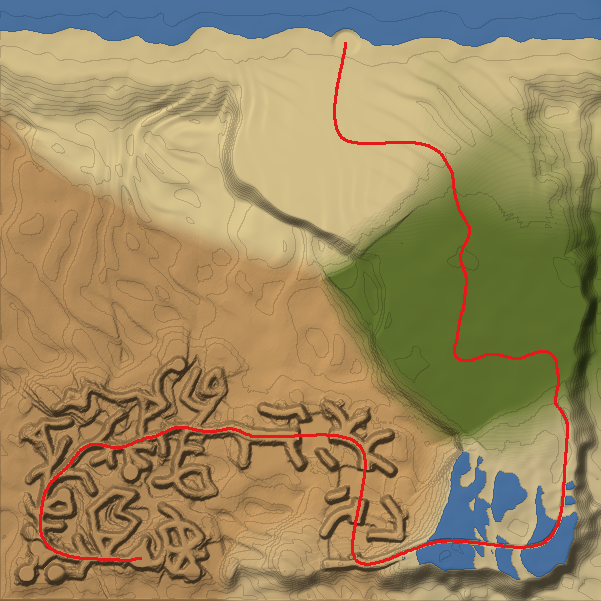
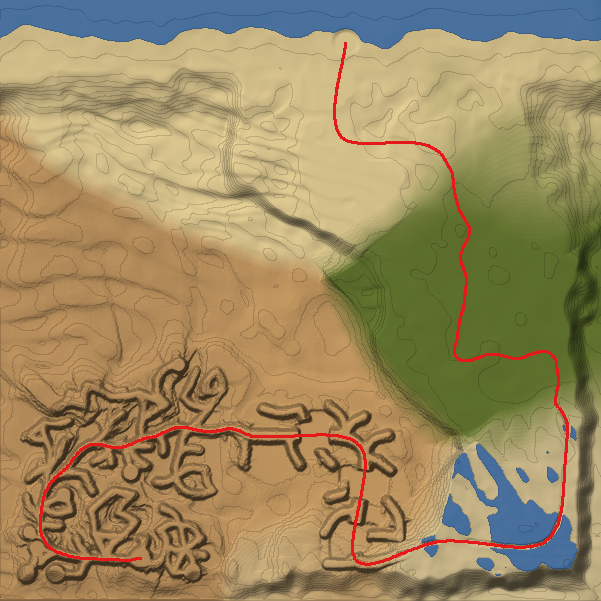
feat(tools): Mapa01 sin algas, playa de dunas y módulos que no se pisan
- Semilla estable: lo añadido tras la versión aprobada (desnivel de los
  túneles, ruido de túnel, cresta y lomas de playa) sale de un generador
  aparte, así que la semilla 20260925 sigue dando el mismo mapa. Test que
  fija su huella (ruta de 1521 m, tramos de túnel, ángulo de dunas).
- Bosque: sin modelos de alga; la zona se lee por una arena amarilla con
  tono verdoso (paleta algae_sand).
- Playa final: lomas grandes y redondeadas que se suben andando antes de
  bajar al mar.
- Zona encharcada: la cresta tiene anchura, bordes y cota irregulares.
- import_terrain_mesh.py: el mapa es fijo y se diseña encima. Si el nivel
  ya existe no toca nada salvo con TN_REGENERATE=1, y entonces recarga los
  DA_* en sitio y crea solo los actores que falten: nada colocado a mano
  se borra.

diff --git a/Scripts/import_terrain_mesh.py b/Scripts/import_terrain_mesh.py
@@ -8,11 +8,18 @@ Se ejecuta DENTRO del editor de Unreal (headless):
 Lee Scripts/terrain_volumes/<nombre>/manifest.json (lo escribe gen_terrain_volume.py) y:
     - crea un DA_<trozo> (UTN_TerrainMeshAsset) por trozo en /Game/Terrain/Volumes/<nombre>,
       cargado desde su binario;
-    - crea o rehace el nivel /Game/Maps/Run/LVL_<nombre>: un ATN_TerrainMeshTile por trozo en su
-      sitio, lamina de agua, sol, cielo, PlayerStart en el inicio y el GameMode de la demo.
+    - crea el nivel /Game/Maps/Run/LVL_<nombre>: un ATN_TerrainMeshTile por trozo en su sitio,
+      lamina de agua, sol, cielo, PlayerStart en el inicio y el GameMode de la demo.
+
+El mapa es FIJO y se disena encima (obstaculos, puzles, retoques): los trozos se guardan para
+editarlos. Por eso, si el mapa ya existe:
+    - sin TN_REGENERATE=1 no se toca nada y el script falla avisando;
+    - con TN_REGENERATE=1 solo se recargan los trozos (DA_* en sitio: mismas referencias) y se
+      crean los actores que falten. Nada de lo colocado a mano en el nivel se borra.
 
 Variables de entorno (opcionales):
     TN_VOLUME_DIR   carpeta con manifest.json (por defecto Scripts/terrain_volumes/Mapa01)
+    TN_REGENERATE   1 = sobrescribir la malla de un mapa ya importado
 """
 
 import json
@@ -46,15 +53,13 @@ def load_or_none(path):
 
 
 def build_assets(volume_dir, manifest, root):
-    if asset_lib.does_directory_exist(root):
-        if not asset_lib.delete_directory(root):
-            raise RuntimeError(f"No se pudo borrar {root}: cierra el nivel que usa sus trozos")
+    """Crea o recarga EN SITIO cada DA_<trozo>: los actores del nivel siguen apuntando a el."""
     assets = {}
     factory = unreal.DataAssetFactory()
     factory.set_editor_property("data_asset_class", unreal.TN_TerrainMeshAsset)
     for cell in manifest["cells"]:
         name = f"DA_{cell['name']}"
-        asset = asset_tools.create_asset(name, root, unreal.TN_TerrainMeshAsset, factory)
+        asset = load_or_none(f"{root}/{name}") or asset_tools.create_asset(name, root, unreal.TN_TerrainMeshAsset, factory)
         path = os.path.join(volume_dir, cell["file"]).replace("\\", "/")
         if not asset.load_from_file(path):
             raise RuntimeError(f"{name}: LoadFromFile rechazo {path}")
@@ -69,26 +74,35 @@ def spawn(actor_class, label, location, rotation=unreal.Rotator(0.0, 0.0, 0.0)):
     return actor
 
 
+def existing_labels():
+    return {a.get_actor_label(): a for a in unreal.get_editor_subsystem(unreal.EditorActorSubsystem).get_all_level_actors()}
+
+
 def build_level(manifest, assets, level_path):
     level_subsystem = unreal.get_editor_subsystem(unreal.LevelEditorSubsystem)
-    actor_subsystem = unreal.get_editor_subsystem(unreal.EditorActorSubsystem)
     if asset_lib.does_asset_exist(level_path):
-        level_subsystem.load_level(level_path)
-        for actor in actor_subsystem.get_all_level_actors():
-            actor_subsystem.destroy_actor(actor)
+        level_subsystem.load_level(level_path)       # se conserva todo lo que haya
     else:
         level_subsystem.new_level(level_path)
+    have = existing_labels()
 
     terrain_material = load_or_none(TERRAIN_MATERIAL_PATH)
     foliage_material = load_or_none(FOLIAGE_MATERIAL_PATH)
     tile_class = unreal.load_class(None, TILE_CLASS_PATH)
     for cell in manifest["cells"]:
-        x, y = cell["center_uu"]
-        tile = spawn(tile_class, f"Terrain_{cell['name']}", unreal.Vector(x, y, 0.0))
-        tile.set_editor_property("terrain_material", terrain_material)
-        tile.set_editor_property("foliage_material", foliage_material)
+        label = f"Terrain_{cell['name']}"
+        tile = have.get(label)
+        if tile is None:
+            x, y = cell["center_uu"]
+            tile = spawn(tile_class, label, unreal.Vector(x, y, 0.0))
+            tile.set_folder_path("Terrain")
+            tile.set_editor_property("terrain_material", terrain_material)
+            tile.set_editor_property("foliage_material", foliage_material)
         tile.set_editor_property("mesh_asset", assets[cell["name"]])
-        tile.set_folder_path("Terrain")
+
+    if "Water" in have:
+        level_subsystem.save_current_level()
+        return
 
     # Lamina de agua: el plano del motor mide PLANE_SIZE_UU; cubre el mapa entero.
     extent = manifest["grid"] * manifest["cell_uu"]
@@ -131,8 +145,12 @@ def main():
     with open(f"{volume_dir}/manifest.json", encoding="utf-8") as handle:
         manifest = json.load(handle)
     name = manifest["name"]
+    level_path = f"/Game/Maps/Run/LVL_{name}"
+    if asset_lib.does_asset_exist(level_path) and os.environ.get("TN_REGENERATE") != "1":
+        raise RuntimeError(f"{level_path} ya existe y es un mapa fijo (se disena encima). "
+                           "Para recargar su malla, TN_REGENERATE=1 (conserva lo colocado a mano).")
     assets = build_assets(volume_dir, manifest, f"/Game/Terrain/Volumes/{name}")
-    build_level(manifest, assets, f"/Game/Maps/Run/LVL_{name}")
+    build_level(manifest, assets, level_path)
     unreal.log(f"[TerrainMesh] {len(assets)} trozos importados; nivel /Game/Maps/Run/LVL_{name} guardado")
 
 

diff --git a/Scripts/terrain_vol/density.py b/Scripts/terrain_vol/density.py
@@ -94,8 +94,6 @@ class MapModel:
         self.net_trees = {z: cKDTree(pts) for z, (pts, _) in self.net_samples.items()}
         self.clearings = {z: self._pick_clearings(rng, n) for z, n in self.nets.items() if z != "algae"}
         self.tunnels = self._plan_tunnels(rng)
-        # Cada tunel sube (o baja) por dentro: desnivel en su centro, 0 en las bocas.
-        self.tunnel_climb = [float(rng.choice([-1.0, 1.0]) * rng.uniform(1.5, 3.0)) for _ in self.tunnels]
 
         self.n_small = Fbm2D(rng, 22.0, 2)
         self.n_mid = Fbm2D(rng, 60.0, 3)
@@ -109,11 +107,17 @@ class MapModel:
         self.n_dune_amp = Fbm2D(rng, 90.0, 2)
         self.n_edge = Fbm2D(rng, 45.0, 3)
         self.n_wall3d = ValueNoise3D(rng, 6.5)
-        self.n_tunnel = Fbm2D(rng, 9.0, 2)
         self.dune_angle = float(rng.uniform(0.0, math.pi))
         self.dune_angle_2 = self.dune_angle + float(rng.uniform(0.6, 1.1))
         self.n_dune_mix = Fbm2D(rng, 120.0, 2)
         self.n_pond = Fbm2D(rng, 34.0, 3)
+        # Todo lo anadido despues de la version que Rodrigo dio por buena (2026-09-25) sale de
+        # un generador aparte: la misma semilla sigue dando el mismo mapa.
+        extra = np.random.default_rng(seed + 7)
+        self.tunnel_climb = [float(extra.choice([-1.0, 1.0]) * extra.uniform(1.5, 3.0)) for _ in self.tunnels]
+        self.n_tunnel = Fbm2D(extra, 9.0, 2)
+        self.n_crest = Fbm2D(extra, 11.0, 2)
+        self.n_beach_hills = Fbm2D(extra, 48.0, 3)
 
         # Campos 2D del mapa entero, con una muestra de margen alrededor.
         count = int(round((MAP_MAX_M - MAP_MIN_M) / STEP_XY_M)) + 1
@@ -267,10 +271,11 @@ class MapModel:
         # una cresta seca que sigue la ruta, con algun hueco que se salta.
         # Laguitos en las hondonadas de un relieve de manchas (no en franjas) y dunas encima.
         base = WATER_M - 0.6 + 3.0 * self.n_pond(X, Y) + self._dunes(X, Y, 2.4, 22.0)
-        crest = 1.0 - smooth(1.4, 2.8, d_route)
+        crest_w = 1.3 + 1.0 * self.n_width.unit(X, Y)
+        crest = 1.0 - smooth(crest_w, crest_w + 1.6, d_route + 1.2 * self.n_crest(X, Y))
         gap = 1.0 - smooth(0.5, 0.9, np.abs(np.mod(s_route, MARSH_JUMP_EVERY_M) - MARSH_JUMP_EVERY_M / 2))
         crest = crest * (1.0 - gap * smooth(0.85, 0.95, w["marsh"]))
-        path_top = MARSH_PATH_TOP_M + 0.3 * small
+        path_top = MARSH_PATH_TOP_M + 0.3 * small + 0.35 * self.n_crest(Y, X)
         heights["marsh"] = base * (1.0 - crest) + np.maximum(base, path_top) * crest
         floors["marsh"] = np.full_like(X, MARSH_PATH_TOP_M)
         bands["marsh"] = np.zeros_like(X)
@@ -287,7 +292,8 @@ class MapModel:
 
         # Playa final: arena que baja hasta el mar por el borde norte del mapa.
         u = MAP_MAX_M - X + 18.0 * self.n_edge(X, Y)
-        beach = WATER_M - 2.5 + 5.0 * smooth(4.0, 70.0, u) + self._dunes(X, Y, 1.6, 20.0) * smooth(45.0, 90.0, u)
+        hills = 5.5 * np.clip(self.n_beach_hills(X, Y) + 0.2, 0.0, None) + 0.8 * self._dunes(X, Y, 1.6, 20.0)
+        beach = WATER_M - 2.5 + 5.0 * smooth(4.0, 70.0, u) + hills * smooth(40.0, 95.0, u)
         heights["beach"], floors["beach"] = beach, beach
         bands["beach"] = np.zeros_like(X)
         axes["beach"] = np.zeros_like(X)

diff --git a/Scripts/terrain_vol/mesh.py b/Scripts/terrain_vol/mesh.py
@@ -26,13 +26,17 @@ PALETTES = {
               (0.12, 0.10, 0.07)),
     "algae": ((0.20, 0.22, 0.06), (0.12, 0.14, 0.045), (0.19, 0.20, 0.05), (0.07, 0.07, 0.03), (0.11, 0.10, 0.04),
               (0.05, 0.06, 0.025)),
+    # Arena del bosque de algas: amarilla con un tono verdoso (sin plantas), siempre arena.
+    "algae_sand": ((0.56, 0.50, 0.22), (0.48, 0.44, 0.19), (0.54, 0.49, 0.20), (0.38, 0.33, 0.15), (0.47, 0.42, 0.19),
+                   (0.10, 0.09, 0.04)),
     # Arena humeda (zona encharcada): mas oscura y fria, siempre arena.
     "damp": ((0.47, 0.37, 0.21), (0.42, 0.32, 0.18), (0.46, 0.35, 0.19), (0.36, 0.27, 0.15), (0.44, 0.34, 0.20),
              (0.10, 0.08, 0.05)),
 }
 # Siempre playa y arena (2026-09-25): el bosque de algas crece sobre arena; la zona encharcada
 # es arena humeda.
-ZONE_PALETTE = {"cliffs": "sand", "canyon": "sand", "marsh": "damp", "algae": "beach", "beach": "beach"}
+ZONE_PALETTE = {"cliffs": "sand", "canyon": "sand", "marsh": "damp", "algae": "algae_sand", "beach": "beach"}
+PLANT_ALGAE = False          # 2026-09-25: sin modelos de alga; la zona se lee por el color de la arena
 
 FOLIAGE_SPACING_M = 2.0
 SMOOTH_ITERATIONS = 6                   # Taubin (encoge poco): quita el escalonado del marching cubes
@@ -134,7 +138,10 @@ def standable_cells(D: np.ndarray, clearance_m: float = 2.0) -> np.ndarray:
 
 
 def foliage_instances(model: MapModel, col: int, row: int, fields: Fields, top: np.ndarray) -> np.ndarray:
-    """Algas sobre una rejilla global de FOLIAGE_SPACING_M con desplazamiento por celda."""
+    """Algas sobre una rejilla global de FOLIAGE_SPACING_M con desplazamiento por celda (ninguna
+    si PLANT_ALGAE es False)."""
+    if not PLANT_ALGAE:
+        return np.zeros((0, 11), dtype=np.float32)
     x0, x1, y0, y1 = cell_bounds(col, row)
     ix = np.arange(int(np.floor(x0 / FOLIAGE_SPACING_M)), int(np.ceil(x1 / FOLIAGE_SPACING_M)))
     iy = np.arange(int(np.floor(y0 / FOLIAGE_SPACING_M)), int(np.ceil(y1 / FOLIAGE_SPACING_M)))

diff --git a/Scripts/tests/test_terrain_volume.py b/Scripts/tests/test_terrain_volume.py
@@ -171,3 +171,11 @@ def test_sin_picos_de_una_celda_en_la_roca(model):
 
 def test_los_tuneles_suben_o_bajan_por_dentro(model):
     assert all(1.0 <= abs(c) <= 3.5 for c in model.tunnel_climb)
+
+
+def test_la_semilla_aprobada_da_el_mismo_mapa(model):
+    """Mapa01 (semilla 20260925) lo dio por bueno Rodrigo el 2026-09-25: lo nuevo no puede
+    consumir numeros de la secuencia original (usa un generador aparte)."""
+    assert round(model.route.length) == 1521
+    assert [(round(a), round(b)) for a, b in model.tunnels] == [(434, 463), (522, 551), (577, 607)]
+    assert round(model.dune_angle, 4) == 0.3311
